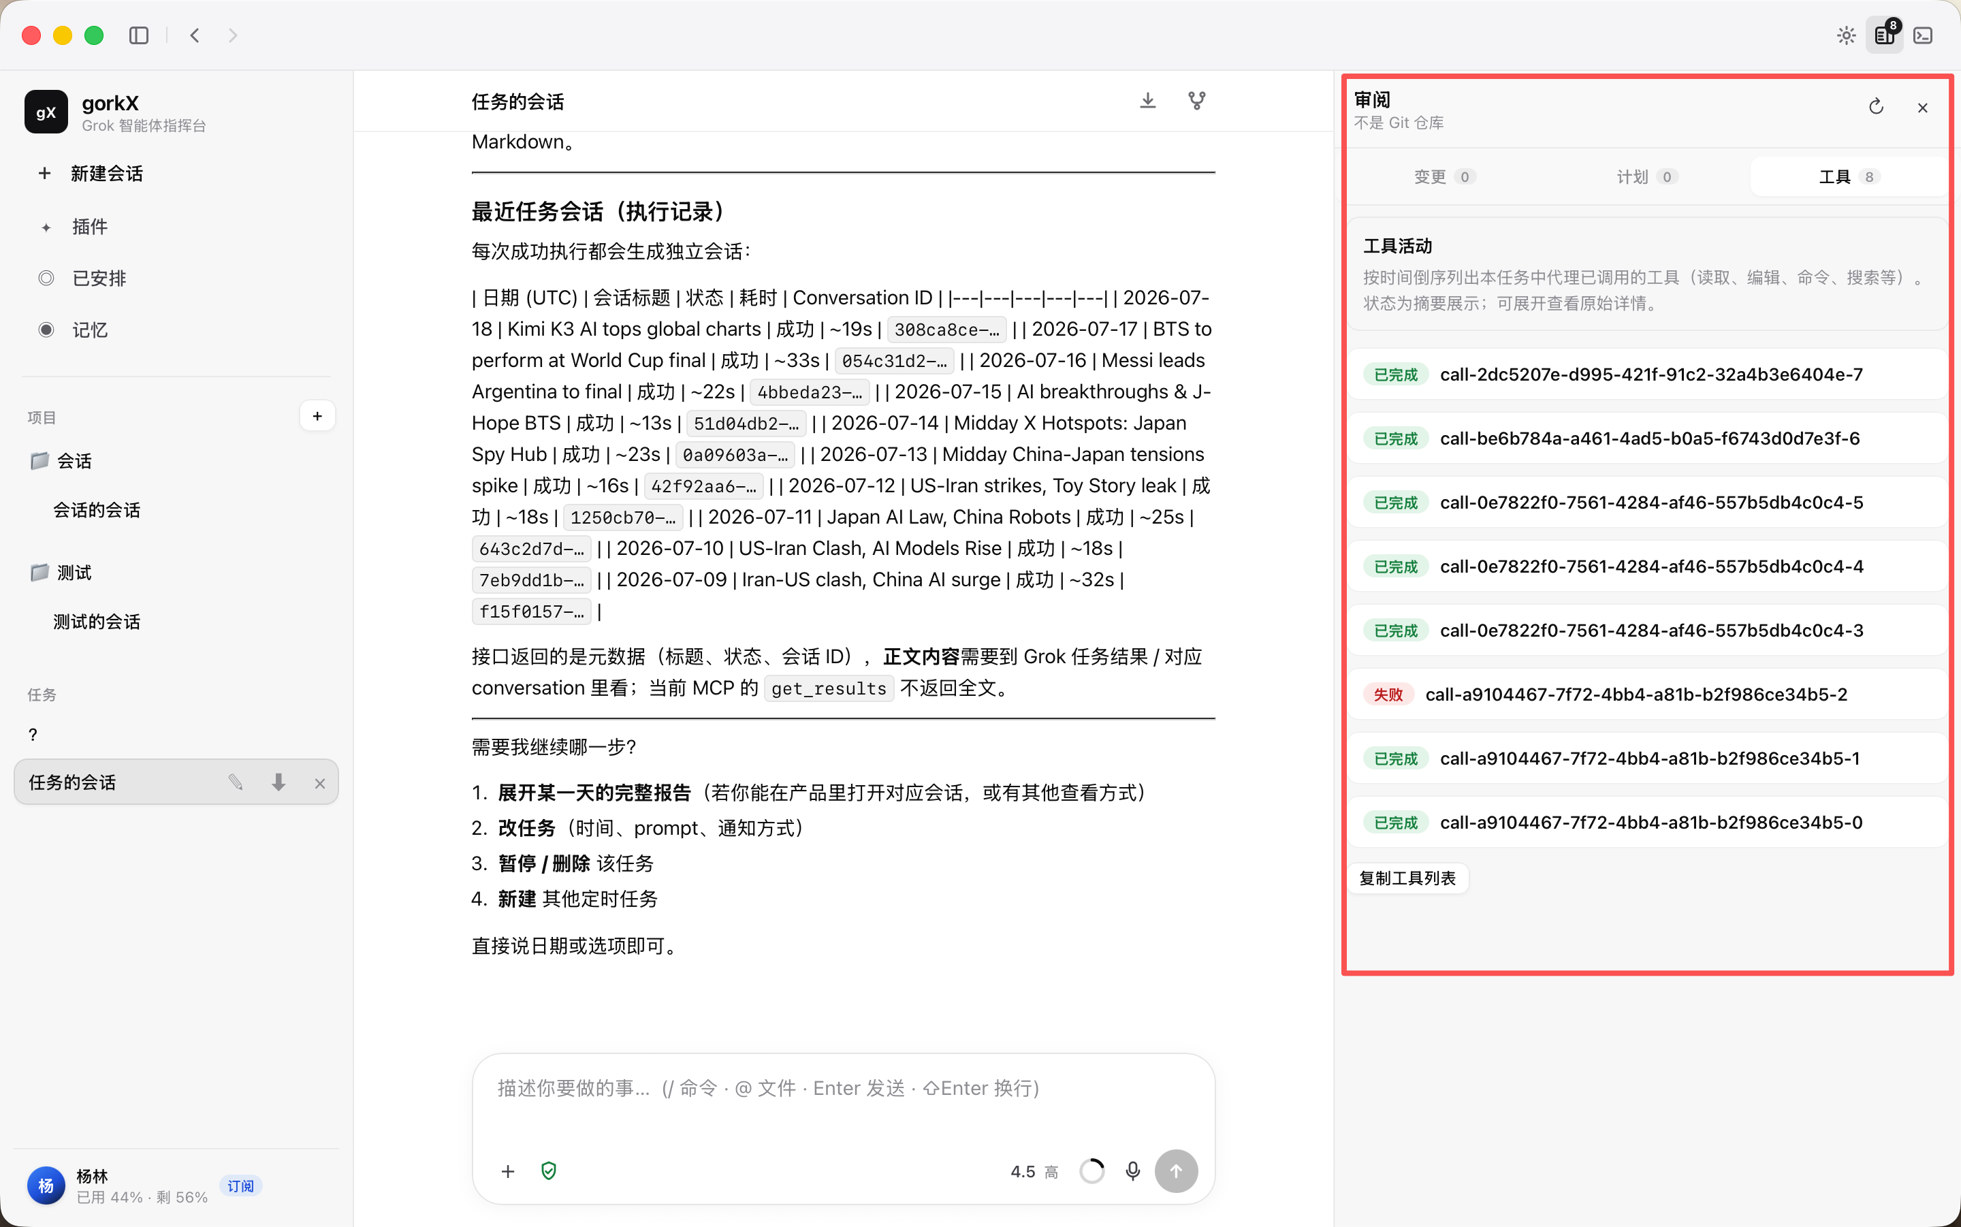
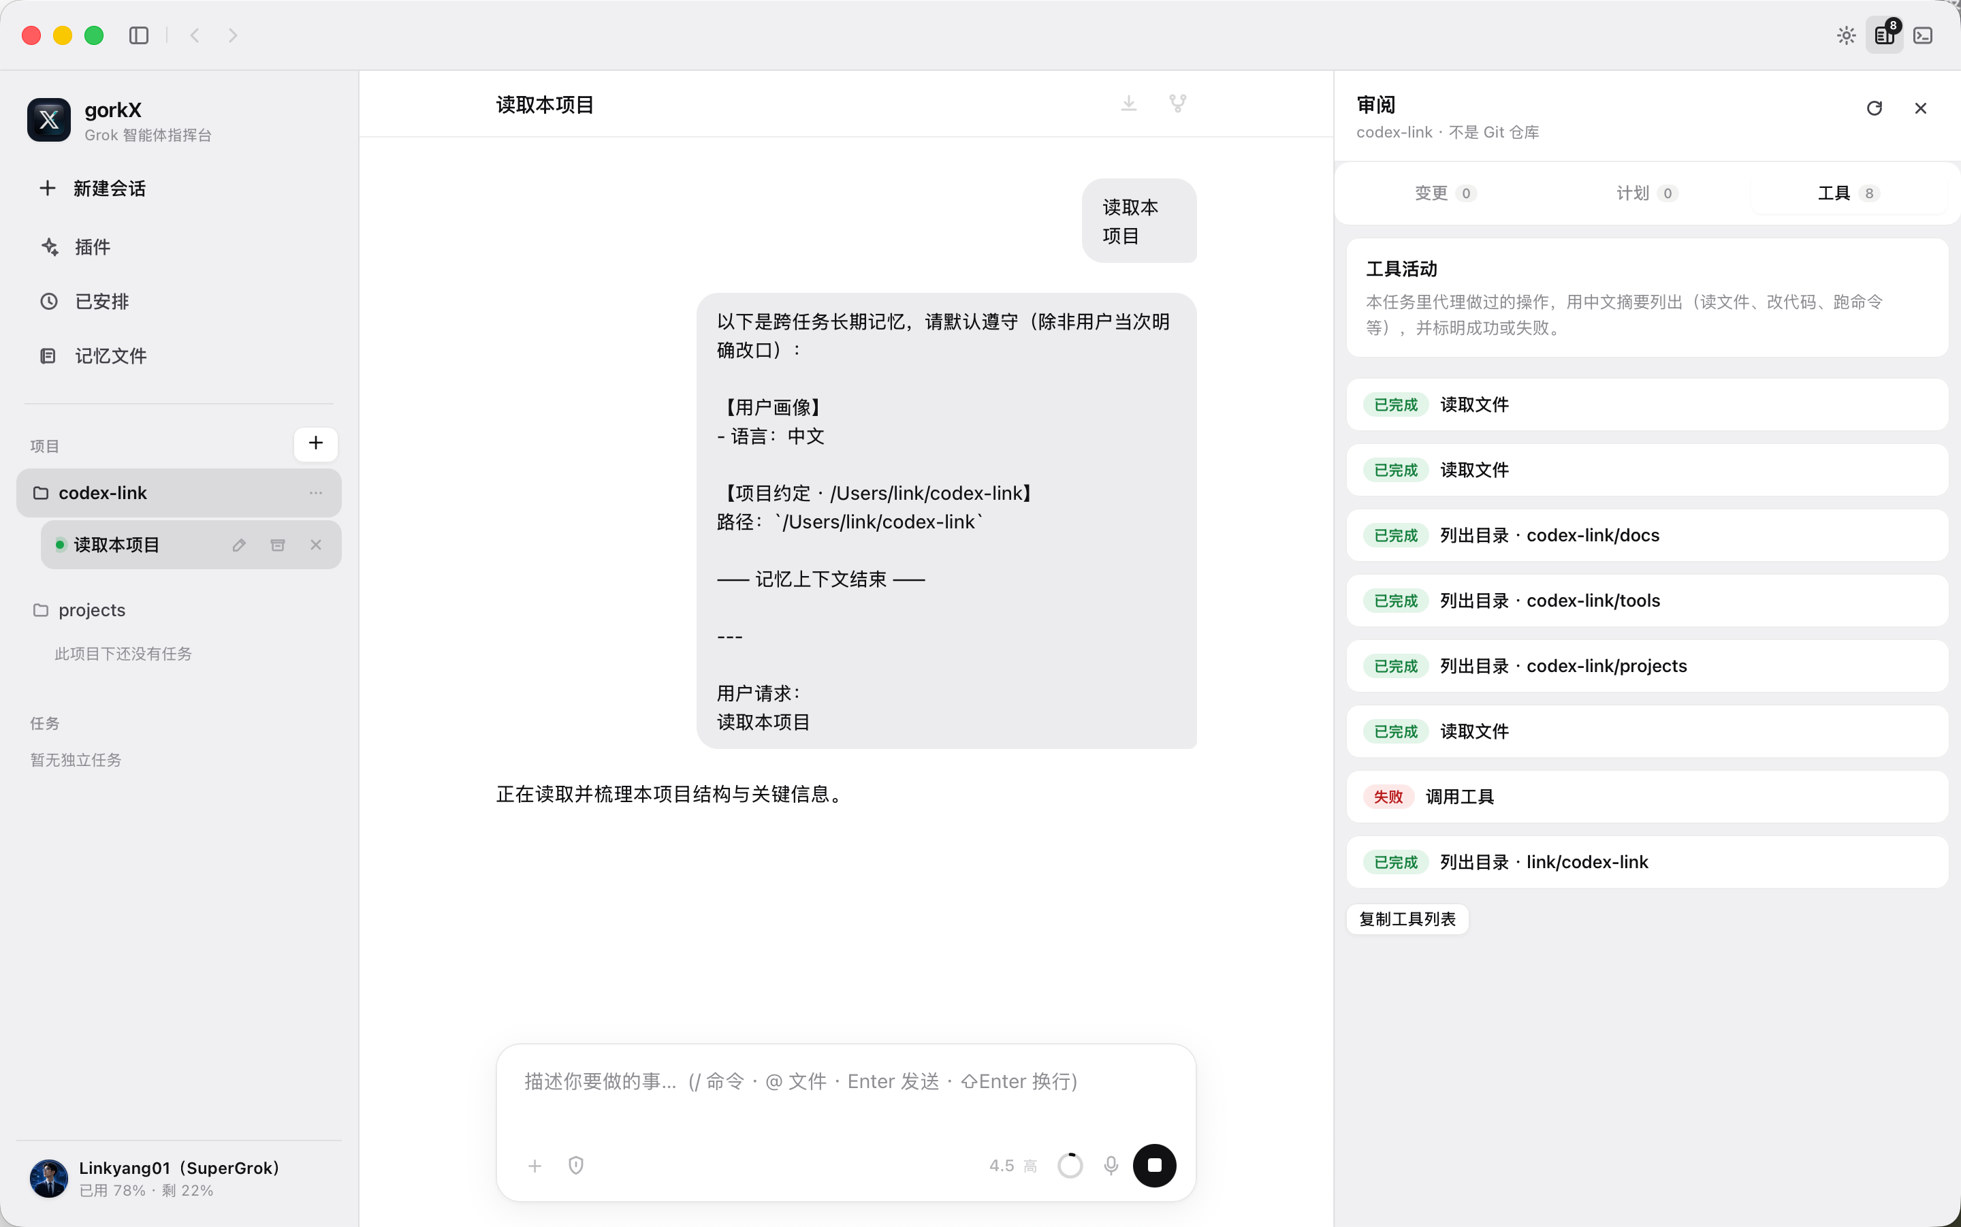
docs: refresh main/review screenshots and bilingual product README
Replace home and review screenshots for 0.4.1, and rewrite the README
in Chinese and English for discoverability—capabilities, download, and
honest positioning without claiming unfinished work.

diff --git a/README.md b/README.md
@@ -1,82 +1,264 @@
 # gorkX
 
-**独立桌面 Agent** — 体验对齐 Codex 指挥台；**内核 = 开源 Grok Build**（App 自管 `GROK_HOME`，可捆绑引擎）。
+**给每天写代码的人：一台桌面上的 Grok Agent 指挥台。**
 
-**当前版本：0.4.0**
+gorkX 不是又一个聊天壳。它把开源 **[Grok Build](https://github.com/xai-org/grok-build)** 做成可安装的 **macOS 桌面应用**：项目、任务、权限、审阅、记忆、登录与额度都在同一屏里完成——交互对标大家熟悉的 **Codex 指挥台**，引擎仍是你能审计、可升级的 Grok 内核。
 
-| | |
-|--|--|
-| **产品** | gorkX — 项目 · 任务 · 权限 · 审阅 · 记忆 · 已安排 · 扩展 |
-| **引擎** | Grok Build（ACP stdio） |
-| **许可** | Apache-2.0 |
-| **平台** | macOS Apple Silicon first |
+**当前版本：0.4.1** · **许可：Apache-2.0** · **首选平台：macOS Apple Silicon**
+
+<p align="center">
+  <img src="docs/screenshots/00-icon.png" width="88" alt="gorkX" />
+</p>
+
+<p align="center">
+  <a href="https://github.com/linkyang01/gorkX/releases/latest"><img alt="Download" src="https://img.shields.io/github/v/release/linkyang01/gorkX?label=Download%20DMG&color=0f172a" /></a>
+  <a href="LICENSE"><img alt="License" src="https://img.shields.io/badge/License-Apache%202.0-blue.svg" /></a>
+  <a href="docs/FEATURES.md"><img alt="Features" src="https://img.shields.io/badge/Features-honest%20matrix-2dd4bf" /></a>
+</p>
+
+---
+
+## 为什么选 gorkX
+
+| 痛点 | gorkX 怎么解 |
+|------|----------------|
+| CLI / TUI 功能强，但日常要切终端、记路径、找历史 | **一窗完成**：侧栏项目 → 任务 → 对话 → 右侧审阅 |
+| Agent 改了什么、跑了什么工具，看不清 | **审阅面板**：工具活动人类可读，成功/失败一眼能扫 |
+| 跨会话「说了等于没说」 | **Hermes 式长期记忆**：画像 / 工作笔记 / 项目约定真正落盘、开局注入 |
+| 登录、额度、会员状态分散 | **账号区**：订阅等级、已用/剩余额度、头像与显示名 |
+| 桌面壳只调黑盒 API | **引擎自管**：App `GROK_HOME`，会话与记忆归你，可捆绑/替换 Grok Build |
+
+一句话：**同样用 Grok 写代码，gorkX 让「开任务 → 看工具 → 留记忆 → 管额度」变成产品级路径，而不是每次从零拼命令。**
 
 ---
 
 ## 截图
 
-<p align="center">
-  <img src="docs/screenshots/00-icon.png" width="96" alt="gorkX icon" />
-</p>
+### 主界面 · 项目、任务与创作区
 
-### 主界面 · 项目与对话
+侧栏管理项目与任务，中间是 Codex 风格的创作首页与对话，左下角账号区显示会员与额度。
 
 ![主界面](docs/screenshots/02-main.jpg)
 
-### 审阅面板
+### 审阅 · 工具活动一目了然
 
-![审阅](docs/screenshots/03-review.jpg)
+Agent 读文件、列目录、调工具的过程在右侧沉淀为中文摘要与状态，便于复盘与排错。
 
-### 记忆管理
+![审阅面板](docs/screenshots/03-review.jpg)
 
-![记忆](docs/screenshots/01-memory.jpg)
+### 记忆 · 可打开、可写入、可遗忘
 
----
-
-## 0.4.0 要点
-
-- **Hermes 式记忆（真链路）**：默认开启；`USER.md` / `AGENT.md` / 项目 `MEMORY.md`；**新任务首次提问注入**；**自动学习**写会话沉淀；「记一条」立即落盘  
-- **界面**：浅色产品壳、侧栏线框图标、Grok+X 应用图标  
-- **诚实能力表**：见 [`docs/FEATURES.md`](docs/FEATURES.md) — 不做假成品  
-- Composer 发送/停止融合、模型·努力·权限紧凑控件、语音（环境支持时）
+![记忆管理](docs/screenshots/01-memory.jpg)
 
 ---
 
-## 开发
+## 下载
+
+| 平台 | 安装包 |
+|------|--------|
+| **macOS Apple Silicon** | [gorkX_0.4.1_aarch64.dmg](https://github.com/linkyang01/gorkX/releases/download/v0.4.1/gorkX_0.4.1_aarch64.dmg) |
+
+打开 DMG，将 **gorkX** 拖入「应用程序」。若系统提示未签名开发者，请到 **系统设置 → 隐私与安全性** 中允许打开（当前发布为未公证构建，属预期行为）。
+
+完整发行说明与资源：[Releases](https://github.com/linkyang01/gorkX/releases)
+
+---
+
+## 核心能力（0.4.1）
+
+### 1. 真·桌面 Agent 工作流
+
+- **项目维度**：按文件夹组织任务，cwd 与 Agent 上下文一致  
+- **任务 / 会话**：本地索引 + 内核会话，同名任务不胡乱合并  
+- **Composer**：发送与停止融合、模型与努力程度、权限档位，贴近 Codex 手感  
+- **审阅三栏**：变更 / 计划 / **工具活动**——工具标题可读，状态可扫  
+
+### 2. Hermes 式记忆（可验证的文件链路）
+
+- 分层文件：`USER.md` · `AGENT.md` · 项目 `MEMORY.md` · 会话沉淀  
+- **新任务开局注入**优先文件**最新**内容（尾部），避免旧种子标题占满预算  
+- 自动学习写会话摘要；超额合并进归档；支持「记一条」与按关键词**忘记**  
+- 数据在本机：`~/Library/Application Support/gorkX/grok-home/memory/`  
+
+### 3. 登录、额度与账号体验
+
+- **浏览器设备码登录**（无需再弹系统终端）  
+- 登录一次写在 App 专属 `auth.json`；**关软件保留登录**；点「退出」才清除  
+- Token 到期前静默刷新；额度走官方 CLI billing（需 Grok CLI 权限）  
+- 显示 **SuperGrok** 等会员档、已用/剩余百分比、账号头像；显示名可本机改，不影响云端账号  
+
+### 4. 诚实交付
+
+能力不是「菜单上有就算有」。真 / 半 / 规划写在 **[docs/FEATURES.md](docs/FEATURES.md)**，欢迎对照使用、提 Issue 纠偏。
+
+---
+
+## 适合谁
+
+- 已用或准备用 **Grok Build / SuperGrok** 做日常编码的人  
+- 喜欢 Codex 指挥台式布局、又不想离开 Grok 生态的人  
+- 需要 **跨任务记忆**、工具过程可审阅、额度一眼可见的重度用户  
+- 希望 **开源可审计**、数据目录清晰、能自己编安装包的开发者  
+
+---
+
+## 从源码运行
 
 ```bash
-cd apps/desktop
+git clone https://github.com/linkyang01/gorkX.git
+cd gorkX/apps/desktop
 npm install
 npm run tauri dev
 ```
 
-可选引擎：
+可选指定引擎二进制：
 
 ```bash
 export GORKX_GROK_CMD=/path/to/grok
 npm run tauri dev
 ```
 
-数据目录（默认）：
-
-`~/Library/Application Support/gorkX/`  
-· `gorkx.db` — 任务索引  
-· `grok-home/` — 引擎会话、登录、**memory/**
-
-## 构建
+打包：
 
 ```bash
-./scripts/mac-build.sh
-# 或
-cd apps/desktop && npm run build:app
+cd apps/desktop && npm run tauri build
+# 或仓库根目录 ./scripts/mac-build.sh（若提供）
 ```
+
+### 数据目录（默认）
+
+```
+~/Library/Application Support/gorkX/
+  gorkx.db          # 任务 / 快照索引
+  grok-home/        # 引擎 GROK_HOME：会话 · 登录 · 记忆 · 配置
+  runtime/          # 可选捆绑引擎
+```
+
+**隐私：** 源码与 Release **不包含**任何用户 token 或账号密码。登录态仅存在于本机上述目录。
+
+---
+
+## 架构一瞥
+
+```
+┌─────────────────────────────────────────┐
+│  gorkX UI (React + Tauri 2)             │
+│  项目 · 任务 · 审阅 · 记忆 · 账号        │
+└──────────────────┬──────────────────────┘
+                   │ ACP stdio
+┌──────────────────▼──────────────────────┐
+│  Grok Build 引擎（App GROK_HOME）        │
+│  tools · sessions · models · memory      │
+└─────────────────────────────────────────┘
+```
+
+---
 
 ## 文档
 
-- [`docs/INDEPENDENT_APP_PLAN.md`](docs/INDEPENDENT_APP_PLAN.md) — 产品主线  
-- [`docs/FEATURES.md`](docs/FEATURES.md) — 真 / 半 / 规划  
-- [`docs/MASTER_PLAN.md`](docs/MASTER_PLAN.md) — 路线图  
+| 文档 | 内容 |
+|------|------|
+| [docs/FEATURES.md](docs/FEATURES.md) | 能力诚实表：真 / 半 / 规划 |
+| [docs/INDEPENDENT_APP_PLAN.md](docs/INDEPENDENT_APP_PLAN.md) | 独立 App 产品主线 |
+| [docs/MASTER_PLAN.md](docs/MASTER_PLAN.md) | 更长路线图 |
+
+---
+
+## 参与
+
+Issue / PR 欢迎。讨论范围包括：审阅体验、记忆策略、多模型、Windows/Linux 打包、引擎捆绑与更新通道。
+
+若 gorkX 对你有用，请 **Star** 仓库，并分享给同样在找「Grok 的 Codex 式桌面」的同事——产品靠真实使用迭代，你的反馈就是路线图。
+
+---
 
 ## License
 
-Apache-2.0
+[Apache-2.0](LICENSE)
+
+---
+
+# gorkX (English)
+
+**A desktop command center for Grok Build—built for people who ship code every day.**
+
+gorkX is **not** another thin chat wrapper. It turns open-source **[Grok Build](https://github.com/xai-org/grok-build)** into an installable **macOS app**: projects, tasks, permissions, review, memory, sign-in and quota in one place. The UX is intentionally close to the **Codex command-center** layout; the runtime remains an auditable Grok Build kernel you can upgrade.
+
+**Version 0.4.1** · **Apache-2.0** · **macOS Apple Silicon first**
+
+---
+
+## Why gorkX
+
+| Friction | What you get |
+|----------|----------------|
+| CLI power buried in terminals and flags | **One window**: projects → tasks → chat → review |
+| Hard to see what the agent actually did | **Review pane**: human-readable tool activity |
+| Context dies between sessions | **Hermes-style memory**: real files, inject on first prompt |
+| Auth and quota live elsewhere | **Account chip**: plan tier, usage %, avatar |
+| Desktop shells hide the model stack | **App-owned `GROK_HOME`**: your sessions and memory, replaceable engine |
+
+**Same Grok coding agent—product path for start → tools → memory → quota, without re-assembling a CLI ritual every morning.**
+
+---
+
+## Screenshots
+
+### Home · projects and composer
+
+![Main UI](docs/screenshots/02-main.jpg)
+
+### Review · tool activity
+
+![Review](docs/screenshots/03-review.jpg)
+
+### Memory · files you can open and edit
+
+![Memory](docs/screenshots/01-memory.jpg)
+
+---
+
+## Download
+
+| Platform | Package |
+|----------|---------|
+| **macOS Apple Silicon** | [gorkX_0.4.1_aarch64.dmg](https://github.com/linkyang01/gorkX/releases/download/v0.4.1/gorkX_0.4.1_aarch64.dmg) |
+
+Drag **gorkX** to Applications. Unsigned builds may need **System Settings → Privacy & Security** on first launch.
+
+[All releases](https://github.com/linkyang01/gorkX/releases)
+
+---
+
+## Highlights (0.4.1)
+
+- **Desktop agent workflow** — projects, tasks, fused send/stop composer, plan/tools review  
+- **Real Hermes-style memory** — layered markdown, tail-prefer injection, auto-learn digests, forget  
+- **Auth that behaves** — browser device login, stay signed in across restarts, silent refresh, explicit logout  
+- **Account surface** — SuperGrok-class tier label, usage %, avatar, local display name only  
+- **Honest feature matrix** — [docs/FEATURES.md](docs/FEATURES.md)
+
+---
+
+## Develop
+
+```bash
+git clone https://github.com/linkyang01/gorkX.git
+cd gorkX/apps/desktop
+npm install
+npm run tauri dev
+```
+
+Data lives under `~/Library/Application Support/gorkX/` (`gorkx.db` + `grok-home/`). **No user credentials are embedded in the repository or release artifacts.**
+
+---
+
+## Contributing
+
+Issues and PRs welcome—especially review UX, memory policy, multi-model, and packaging.
+
+If gorkX helps your workflow, **star the repo** and send it to someone still living in a pure CLI loop. Real usage is the best roadmap.
+
+## License
+
+[Apache-2.0](LICENSE)